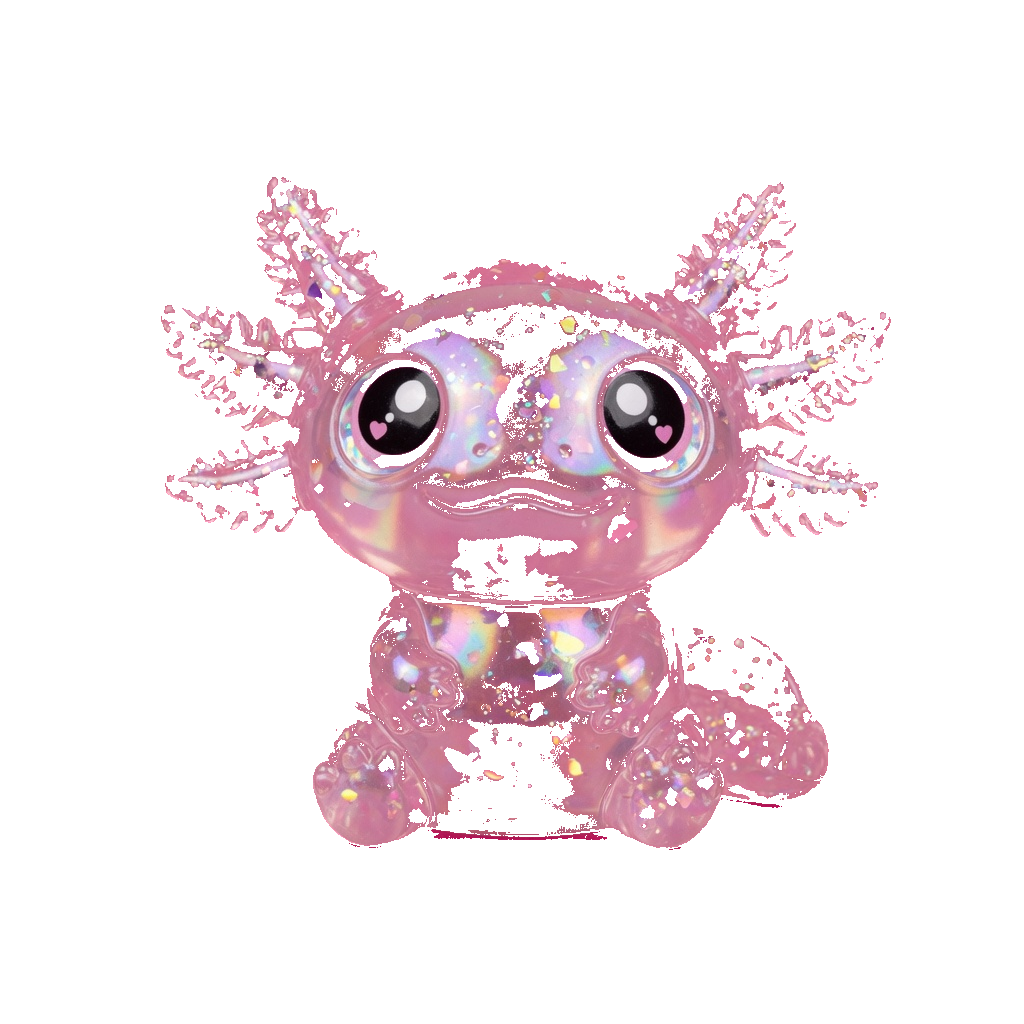
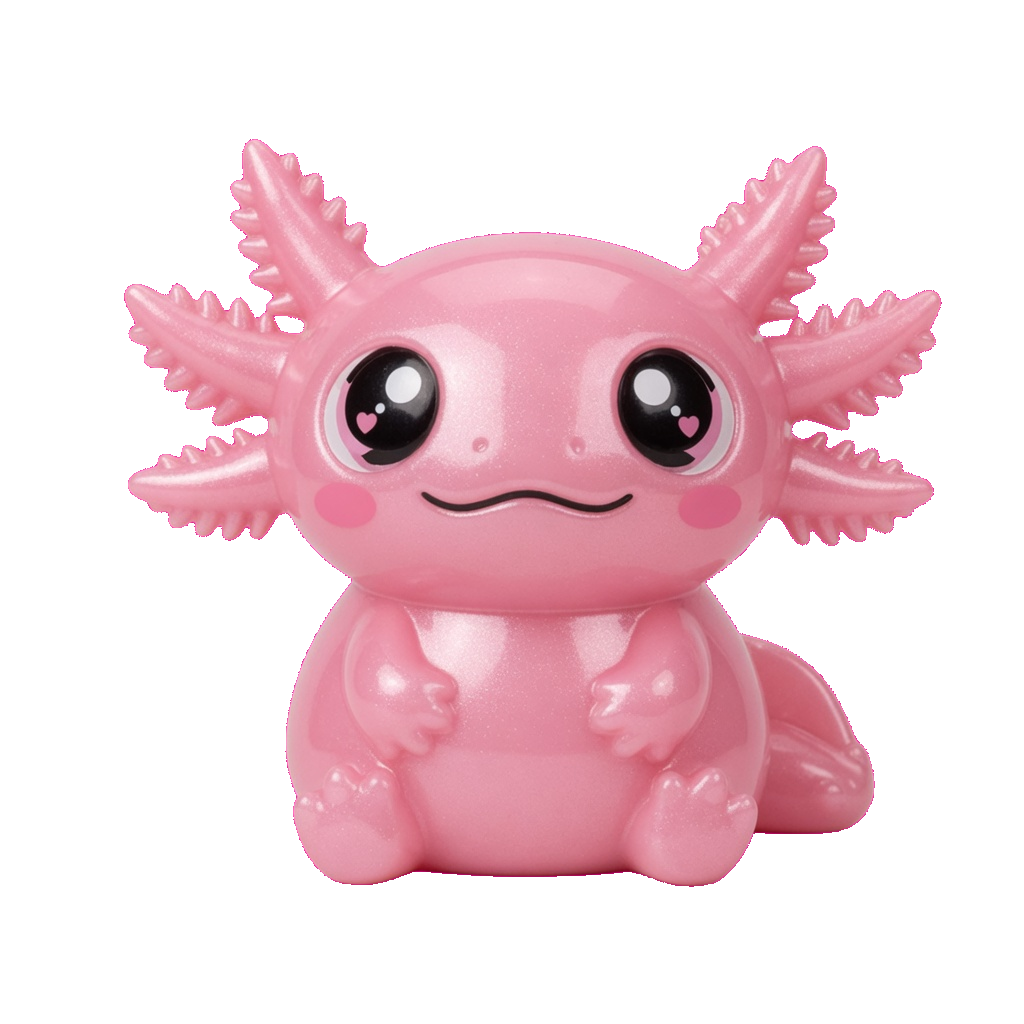
Fill the axolotl and cupcake. Strict key only.
Opaque squish toys, no hole-punch. Crystal gills and belly stay filled. Cupcake liner is solid pink with an intact cherry.

diff --git a/scripts/key-squishees.py b/scripts/key-squishees.py
@@ -9,7 +9,7 @@ from PIL import Image
 ROOT = Path(__file__).resolve().parents[1] / "public" / "squishees"
 
 
-STRICT_FILES = {"aurora-jelly.png"}
+STRICT_FILES = {"aurora-jelly.png", "crystal-axolotl.png", "rainbow-cupcake.png"}
 
 
 def is_key(r: int, g: int, b: int) -> bool:
